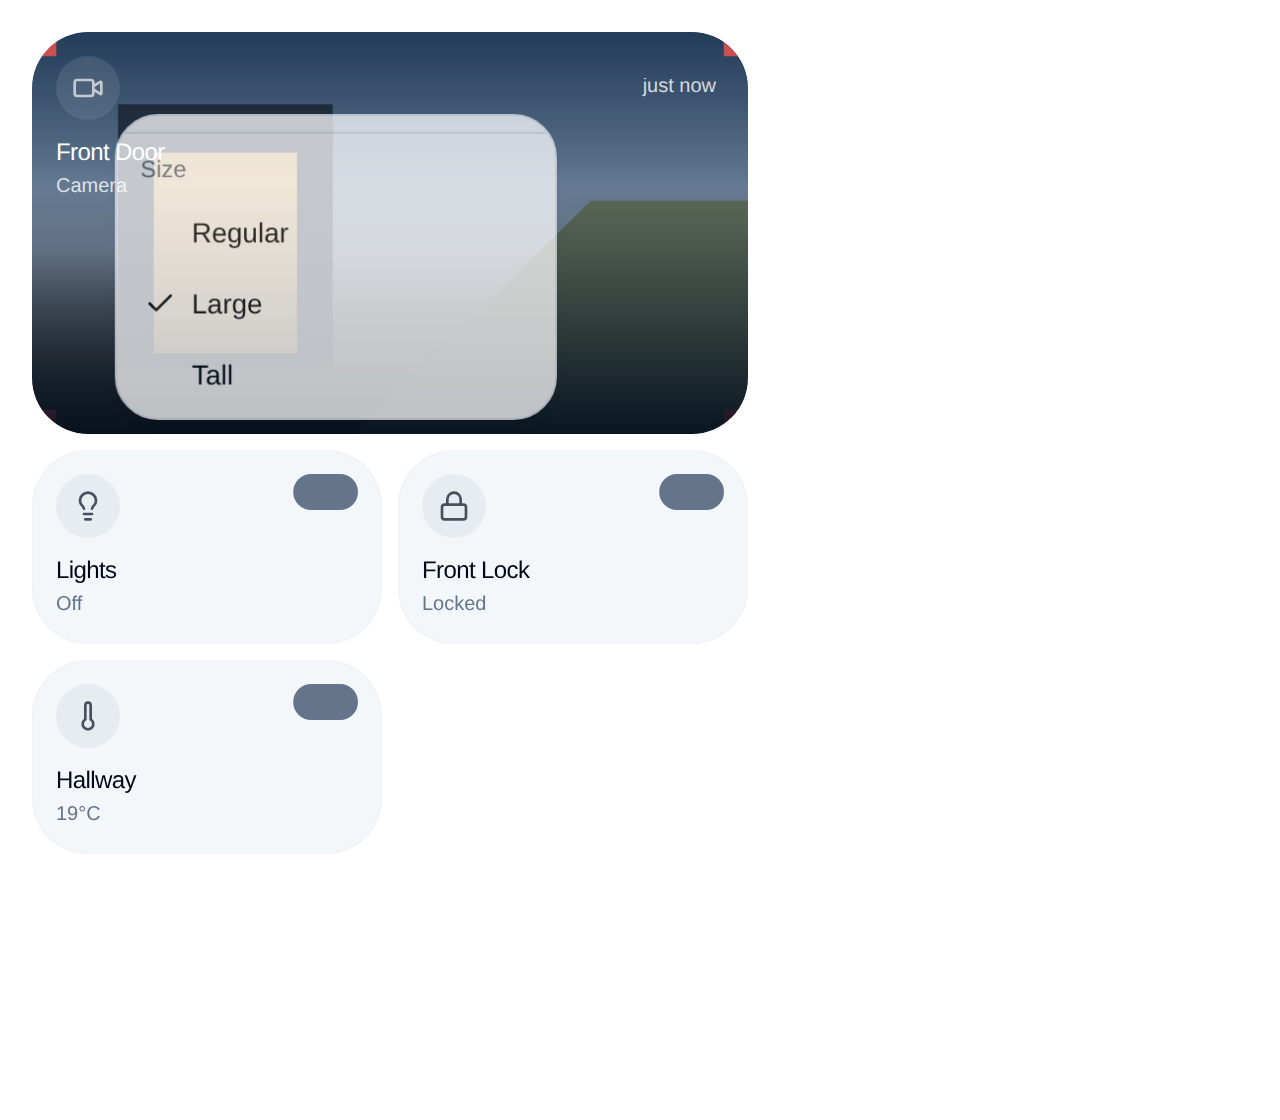
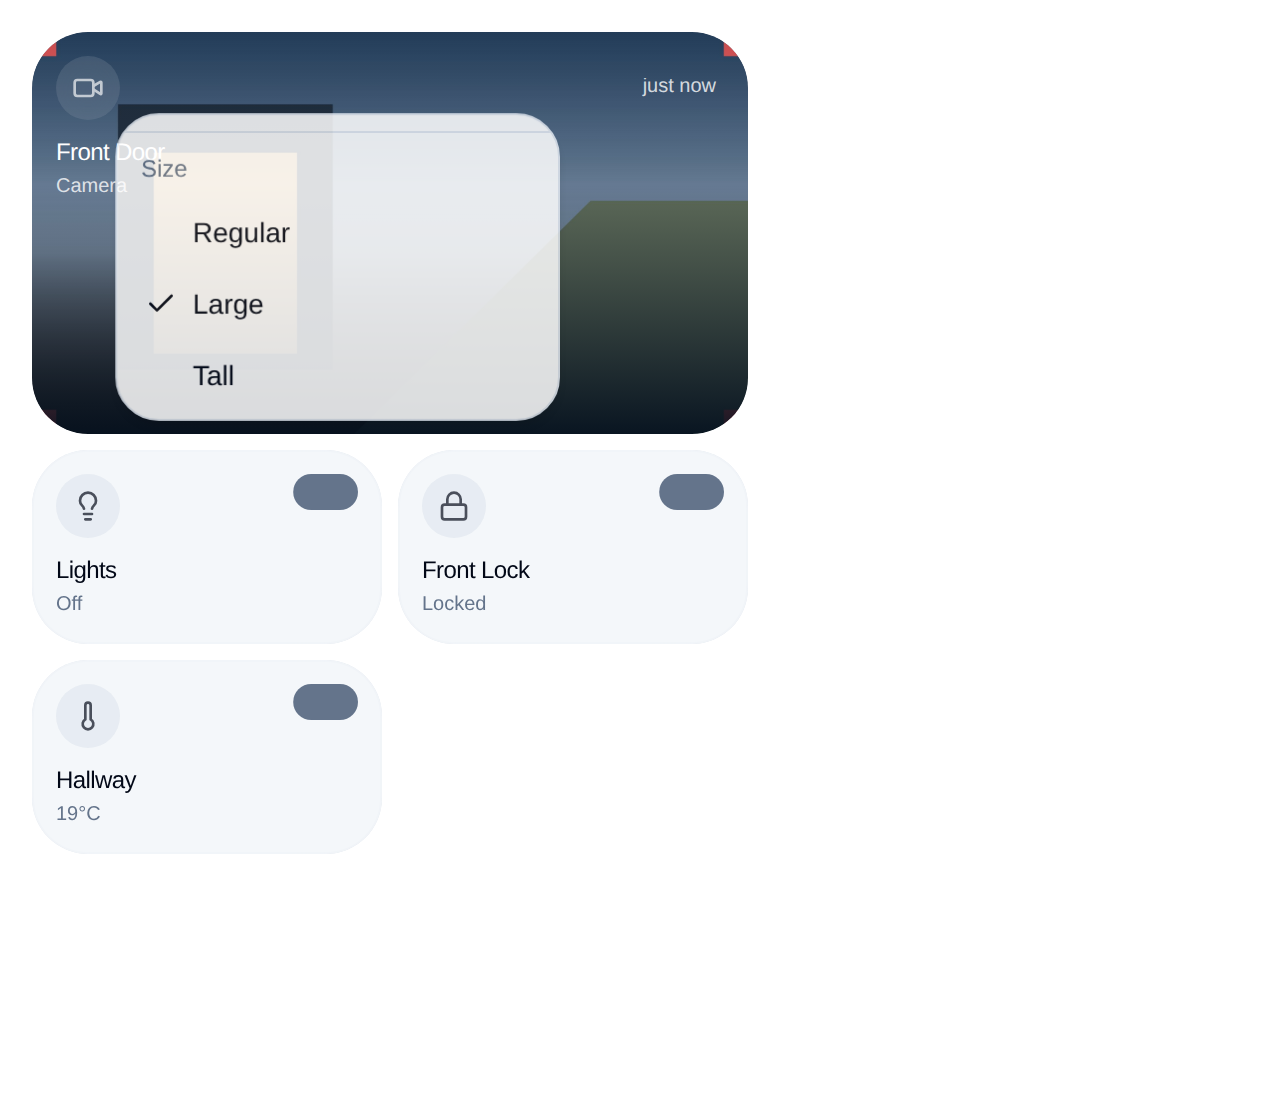
Report a camera's size capability through a ref, not a dep
The caller builds `onSizeCapability` inline per tile, so it is a new function
on every Dashboard render. In the effect's dependency array that re-ran the
report for every camera on every render.

It could not loop today — the reducer returns `prev` unchanged when the
capability has not moved and React bails — but that is the caller's property,
not this hook's, and a caller that did not bail would spin. Depending on the
answer rather than on the callback's identity removes the class of problem.

Claude-Session: https://claude.ai/code/session_011ZqHVswDqHp2BSF1sLnanG

Changed region(s): [[0.0938, 0.0938, 0.4375, 0.375]]

diff --git a/src/hooks/useCameraSizeCapability.ts b/src/hooks/useCameraSizeCapability.ts
@@ -1,4 +1,4 @@
-import { useEffect, useSyncExternalStore } from 'react';
+import { useEffect, useRef, useSyncExternalStore } from 'react';
 import {
   cameraSnapshotCacheKey,
   getCameraSnapshot,
@@ -38,12 +38,20 @@ export function useCameraSizeCapability(
   const width = image?.width ?? undefined;
   const height = image?.height ?? undefined;
 
+  // Through a ref, so the effect below depends on the *answer* and not on the
+  // callback's identity. The caller builds it inline per tile, so it is a new
+  // function on every Dashboard render; in the deps array that would re-run
+  // this effect on every render of every camera. It cannot loop — the reducer
+  // returns `prev` unchanged and React bails — but it is work for nothing, and
+  // a future caller that did not bail would loop.
+  const reportRef = useRef(report);
+  reportRef.current = report;
+
   useEffect(() => {
-    if (!report) return;
     // Depend on the two numbers rather than the image object: the cache hands
     // back a new object on every refreshed still, and reporting on each one
     // would push a new capability through the grid every few seconds for an
     // answer that has not changed.
-    report(available ? cameraSizeCapability({ width, height }) : {});
-  }, [report, available, width, height]);
+    reportRef.current?.(available ? cameraSizeCapability({ width, height }) : {});
+  }, [available, width, height]);
 }
